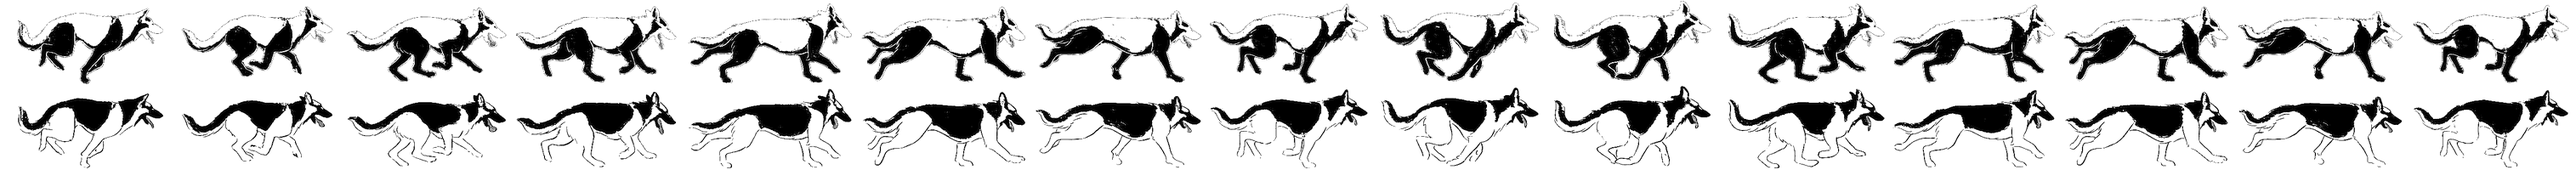
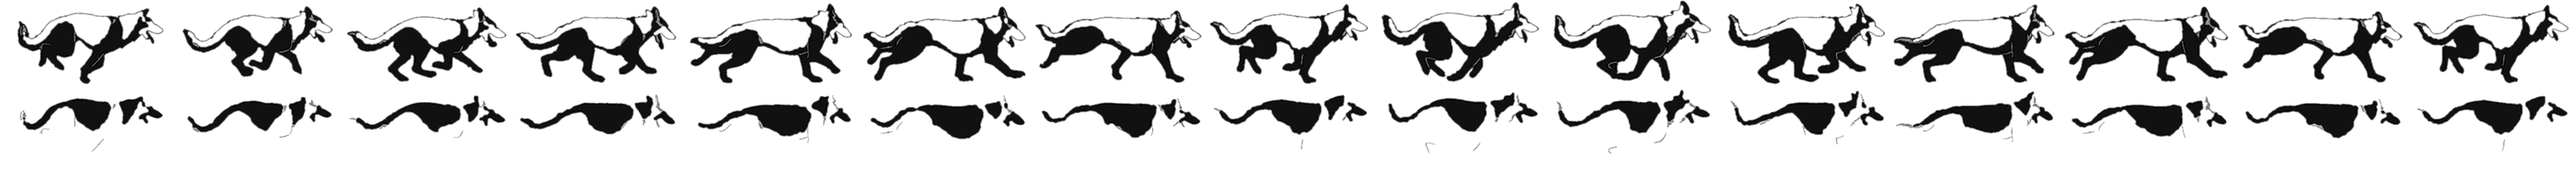
Sync dog: cleaner lines and shading, faint rim for contrast, shown only on app open
Claude-Session: https://claude.ai/code/session_01MA99J1SvvrQ87aDjx4Tq4V

diff --git a/app/index.html b/app/index.html
@@ -426,7 +426,7 @@ body{font-family:"Twemoji Country Flags",system-ui,-apple-system,"Segoe UI",Robo
 #dog.on{opacity:1;transform:none}
 @media(max-width:720px){#dog{bottom:calc(90px + env(safe-area-inset-bottom))}}
 #dog .dgt{font-size:13px;font-weight:700;letter-spacing:.2px;color:var(--acc);margin-bottom:9px;white-space:nowrap}
-#dog .dgi{position:relative;width:101px;height:50px}
+#dog .dgi{position:relative;width:101px;height:50px;filter:drop-shadow(0 0 .8px color-mix(in srgb,var(--ink) 60%,transparent)) drop-shadow(0 0 3px color-mix(in srgb,var(--ink) 18%,transparent))} /* a faint rim in the text colour so it stands off any background */
 #dog .dgi i{position:absolute;inset:0;-webkit-mask:url(dog.png) 0 0/1515px 100px no-repeat;mask:url(dog.png) 0 0/1515px 100px no-repeat;animation:drun 1.2s steps(15) infinite}
 #dog .dgi i:first-child{background:var(--tan)}#dog .dgi i+i{background:var(--sad);-webkit-mask-position:0 -50px;mask-position:0 -50px;animation-name:drun2}
 @keyframes drun{to{-webkit-mask-position:-1515px 0;mask-position:-1515px 0}}@keyframes drun2{from{-webkit-mask-position:0 -50px;mask-position:0 -50px}to{-webkit-mask-position:-1515px -50px;mask-position:-1515px -50px}}
@@ -1214,14 +1214,14 @@ async function refresh(){
 }
 /* keep everyone's view fresh: re-read when the person comes back to the app, and top up their own calendars when they are old */
 let lastGet=Date.now(),auto=false;
-const setSyn=t=>{$('syn').textContent=t||'';const d=$('dog');clearTimeout(setSyn.h);
-  if(t){try{if(d.showPopover&&!d.matches(':popover-open'))d.showPopover()}catch(e){}void d.offsetWidth;d.classList.add('on')} // reflow, then fade in (no frame callback that could land late)
-  else{d.classList.remove('on');setSyn.h=setTimeout(()=>{if($('syn').textContent)return;try{if(d.hidePopover&&d.matches(':popover-open'))d.hidePopover()}catch(e){}},300)}};
+const setSyn=(t,show)=>{$('syn').textContent=t||'';const d=$('dog');clearTimeout(setSyn.h);
+  if(t&&show){try{if(d.showPopover&&!d.matches(':popover-open'))d.showPopover()}catch(e){}void d.offsetWidth;d.classList.add('on')} // reflow, then fade in (no frame callback that could land late)
+  else if(!t){d.classList.remove('on');setSyn.h=setTimeout(()=>{if($('syn').textContent)return;try{if(d.hidePopover&&d.matches(':popover-open'))d.hidePopover()}catch(e){}},300)}};
 async function reloadF(){const f=await run('getFamily');if(pend)return;F=f;lastGet=Date.now();if(F.prefs){applyTheme(F.prefs.theme);if(F.prefs.nav)applyNav(F.prefs.nav)}syncWx();render();cacheSave();if($('dlg').open&&!$('pane-hh').hidden)drawHousehold()}
 function autoSync(force){
   if(auto)return;
   const t=(F.sync||{})[F.me],old=force||!t||Date.now()-new Date(t)>3*6e4; // Google Calendar is read again every few minutes while the app is open
-  if(F.hasSaved&&old){auto=true;setSyn('Syncing your calendars…');
+  if(F.hasSaved&&old){auto=true;setSyn('Syncing your calendars…',force);
     mut('syncMe').then(r=>{F.sync=F.sync||{};F.sync[F.me]=new Date().toISOString();if(!(r&&r.unchanged))return reloadF()}).catch(x=>toast('Could not sync your calendars: '+(x.message||x))).finally(()=>{auto=false;setSyn('')})}
   else if(F.sharedStale){auto=true;setSyn('Updating your Shared Events calendar…');
     mut('syncShared').then(()=>{F.sharedStale=false;cacheSave()}).catch(()=>{}).finally(()=>{auto=false;setSyn('')})}
